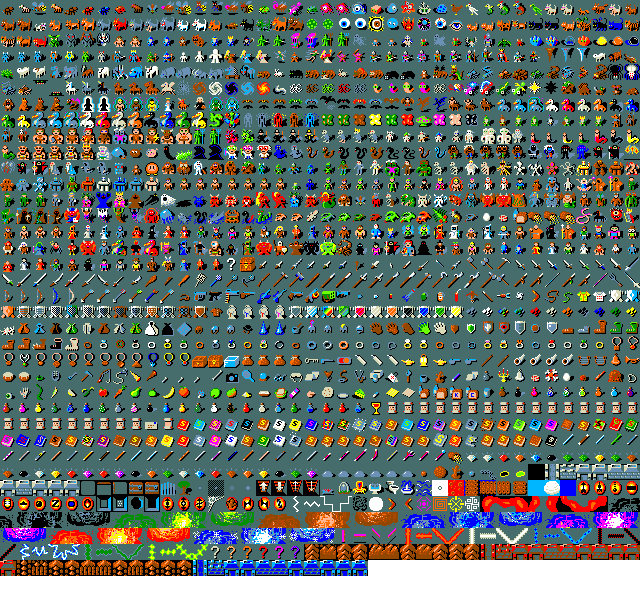
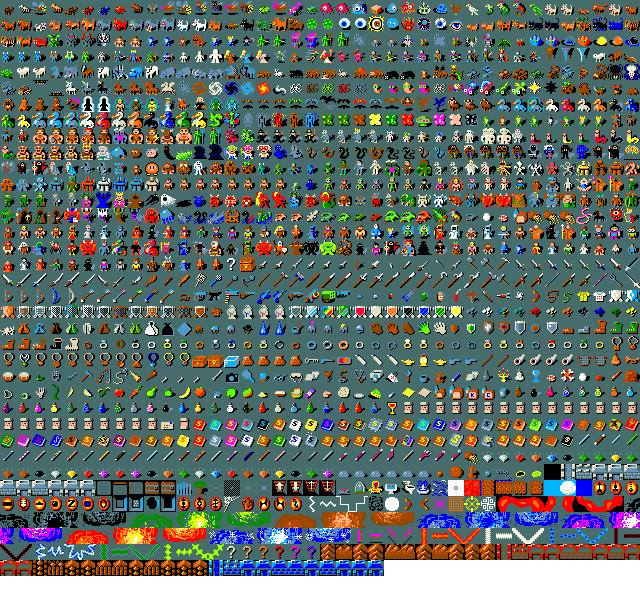
Jesus, the wine glass, the intro story for every new game, no autopickup
The Catholic priest and bishop, the monastic orders (Benedictine,
Cistercian, Carthusian, Augustinian, Franciscan, Dominican, Carmelite)
and the crusading knights follow Jesus: their design's deity, the lawful
god (they're held lawful; the creator shows it), set again on every
restore. They start with ten holy wafers and a holy wine. Their intro is
told in Christian canon: written in the Bible, Satan the cruel god who
stole the Amulet from Jesus the Creator. Holy wine drunk by a follower
makes peace with an angry Jesus.

The wine glass: plain and clear, a tool never made at random, what's left
when holy wine is drunk. Prayer fills it again: on any altar, or for the
priest and the bishop, anywhere they pray. A second glass of holy wine
soon after the first makes you really drunk, for hundreds of turns.

Every new game opens with its intro story (no toggle). Pickup is yours to
do: no autopickup (,).

Changed region(s): [[0.0, 0.5938, 1.0, 0.9688]]

diff --git a/web/js/main.js b/web/js/main.js
@@ -882,7 +882,6 @@ const CYCLES = {
   race: ['Race', RACES.slashem],
   gender: ['Gender', ['random', 'male', 'female']],
   align: ['Alignment', ['random', 'lawful', 'neutral', 'chaotic']],
-  legacy: ['Intro story', ['off', 'on']],
 };
 const SPLASHES = ['Now in 3D!', 'Elbereth!', 'Now with studs!', 'The DevTeam thinks of everything!', 'Do not eat the cockatrice!',
   'You hear the footsteps of a guard on patrol.', '100% tiles!', 'Ascend!', 'Mind your bare feet!', 'Watch out for soldier ants!'];
@@ -940,10 +939,12 @@ function buildScreens() {
 
   // BrickHack starts you as a human male Knight (role 7, race 1, gender 1); the
   // alignment always starts random (the game picks one that fits)
-  const choice = { role: 7, race: 1, gender: 1, legacy: 0, ...safeJSON(localGet('bh.create')), align: 0 };
+  const choice = { role: 7, race: 1, gender: 1, ...safeJSON(localGet('bh.create')), align: 0 };
+  delete choice.legacy; // (a choice no more: every new game opens with its story)
   const nameIn = $('#cname');
   nameIn.value = localGet('nh3d.name') || '';
   let syncPicker = () => {}; // the minifig picker follows the role and gender
+  let sworn = null; // a figure with a deity of its own (its design's "god": Jesus) is held to its alignment: lawful
   const draws = [];
   // Role, race, gender and alignment open a menu of their options; an option
   // that can't go with the other choices (by the game's own rules) is greyed
@@ -961,6 +962,7 @@ function buildScreens() {
   const closeMenu = () => { const m = $('#choice-menu'); if (m) m.remove(); };
   const openMenu = (b, k) => {
     closeMenu();
+    if (k === 'align' && sworn) return; // (fixed by the figure's faith)
     const menu = document.createElement('div');
     menu.id = 'choice-menu';
     menu.className = 'choice-menu';
@@ -988,8 +990,12 @@ function buildScreens() {
     const k = b.dataset.key;
     const draw = () => {
       choice[k] %= CYCLES[k][1].length;
-      b.textContent = `${CYCLES[k][0]}: ${cap(CYCLES[k][1][choice[k]])}`;
+      b.textContent = `${CYCLES[k][0]}: ${cap(CYCLES[k][1][choice[k]])}` + (k === 'align' && sworn ? ` (${sworn})` : '');
       b.classList.toggle('conflict', RULED.includes(k) && conflicts(rules, pick(), k, pick()[k]).length > 0);
+      if (k === 'align') {
+        b.classList.toggle('sworn', !!sworn);
+        b.title = sworn ? `A follower of ${sworn} is lawful` : '';
+      }
     };
     b.onclick = (e) => {
       if (!RULED.includes(k)) { choice[k] = (choice[k] + 1) % CYCLES[k][1].length; refresh(); return; }
@@ -1022,7 +1028,7 @@ function buildScreens() {
   $('#create [data-act=roll]').onclick = () => {
     const any = (k) => CYCLES[k][1].map((v, i) => i).filter((i) => CYCLES[k][1][i] !== 'random');
     const pickOne = (a) => a[Math.floor(Math.random() * a.length)];
-    const free = RULED.filter((k) => !locked.has(k));
+    const free = RULED.filter((k) => !locked.has(k) && !(k === 'align' && sworn));
     for (const k of free) choice[k] = 0;
     for (const k of free) {
       const ok = any(k).filter((i) => !conflicts(rules, pick(), k, CYCLES[k][1][i]).length);
@@ -1040,12 +1046,21 @@ function buildScreens() {
   };
   // your character is named for the figure you pick, unless you have typed a name of your own
   const figNames = new Set();
+  // a figure sworn to a deity of its own (Jesus) is lawful, whatever else was chosen; another frees it
+  const swear = (fig) => {
+    const god = (fig && fig.god) || null;
+    if (god) choice.align = CYCLES.align[1].indexOf('lawful');
+    else if (sworn) choice.align = 0;
+    sworn = god;
+    refresh();
+  };
   figPicker = setupFigurePicker($('#figpick'), () => !$('#create').classList.contains('hidden'), (fig) => {
     if (!nameIn.value || nameIn.value === 'Steve' || figNames.has(nameIn.value)) nameIn.value = fig.label;
     figNames.add(fig.label);
+    swear(fig);
   });
   loadRoster().then((r) => r.forEach((f) => figNames.add(f.label)));
-  syncPicker = () => figPicker.filter(CYCLES.role[1][choice.role], CYCLES.gender[1][choice.gender], CYCLES.race[1][choice.race]);
+  syncPicker = () => { figPicker.filter(CYCLES.role[1][choice.role], CYCLES.gender[1][choice.gender], CYCLES.race[1][choice.race]); swear(figPicker.current()); };
   syncPicker();
   $('#create [data-act=go]').onclick = () => {
     localSet('bh.create', JSON.stringify(choice));
@@ -1061,8 +1076,8 @@ function buildScreens() {
       // roles go by their 3-letter file code (handles "Flame Mage" etc), races by full name
       o[k] = v === 'random' ? 'random' : k === 'race' ? v : v.slice(0, 3);
     }
-    if (figPicker.current() && figPicker.current().kit) o.kit = figPicker.current().kit; // (what its design starts it with besides)
-    o.legacy = choice.legacy === 1;
+    const fig = figPicker.current();
+    if (fig) for (const k of ['kit', 'god', 'perks']) if (fig[k]) o[k] = fig[k]; // (what its design starts it with besides, its deity, its gifts)
     o.dreamland = !!game.createDream;
     o.variant = game.variant;
     startGame(o);
@@ -1145,7 +1160,12 @@ async function openWorlds() {
     const av = loadSkinURL(n);
     if (av) d.querySelector('.avatar').style.backgroundImage = `url(${av})`;
     else d.querySelector('.avatar').style.visibility = 'hidden';
-    d.onclick = () => startGame({ name: n, variant: game.variant });
+    d.onclick = async () => { // (its figure's deity and gifts, again: the engine sets them up on every restore)
+      const fig = (await loadRoster()).find((f) => f.id === localGet(FIG_KEY(n)));
+      const o = { name: n, variant: game.variant };
+      if (fig) for (const k of ['god', 'perks']) if (fig[k]) o[k] = fig[k];
+      startGame(o);
+    };
     list.appendChild(d);
   }
 }

diff --git a/server/server.js b/server/server.js
@@ -19,9 +19,9 @@ const ART_DIRS = ['sky', 'skins', 'monsters', 'dreamland', 'blocks'];
 const IMAGE_EXT = /\.(png|gif|webp)$/i;
 const WORLDS = path.join(ROOT, 'worlds'); // local only: placed blocks + block inventory per character
 // the game engine, built by tools/build-slashem.sh
-// autopickup with no pickup_types = collect everything (Minecraft-style);
+// no autopickup: you pick things up yourself (,);
 // menustyle:partial makes chests list their contents straight away
-const COMMON_OPTS = ['autopickup', 'time', 'showexp', '!cmdassist', 'menustyle:partial'];
+const COMMON_OPTS = ['!autopickup', 'time', 'showexp', '!cmdassist', 'menustyle:partial'];
 // the Windows package (tools/package-windows.sh) carries its engine in game\
 const WINDOWS = process.platform === 'win32';
 const VARIANTS = {
@@ -74,10 +74,10 @@ function startGame(sid, opts) {
   const V = VARIANTS[variant];
   const o = [...V.opts];
   for (const k of ['role', 'race', 'gender', 'align']) {
-    const v = cleanOpt(opts[k]);
+    const v = k === 'align' && opts.god ? 'law' : cleanOpt(opts[k]); // (a follower of the figure's own deity, Jesus, is lawful)
     if (v && v !== 'random') o.push(`${k}:${v}`);
   }
-  if (!opts.legacy) o.push('!legacy');
+  // (the intro story: every new game opens with it, NetHack's legacy option, on by default)
   if (opts.dreamland) o.push('dreamland'); // start on the Dreamland overland level
   const name = cleanName(opts.name);
   // a brand-new character (no save to restore) starts a fresh block world
@@ -87,6 +87,9 @@ function startGame(sid, opts) {
     try { fs.unlinkSync(worldFile(variant, name)); } catch {}
   }
   const kit = fresh ? String(opts.kit || '').replace(/[^a-z0-9 ,:'-]/gi, '').slice(0, 200) : '';
+  // its deity ("Jesus": role.c, set again on every restore) and gifts ("chalice": winweb.c web_fill_glasses)
+  const god = String(opts.god || '').replace(/[^a-z '-]/gi, '').slice(0, 60);
+  const perks = String(opts.perks || '').replace(/[^a-z ,-]/gi, '').slice(0, 100);
 
   const start = () => {
     // LEGOHACK_WIZARD=1 npm start: every game in debug (wizard) mode, for testing
@@ -94,7 +97,7 @@ function startGame(sid, opts) {
     const args = process.env.LEGOHACK_WIZARD === '1' ? ['-D', '-u', name] : ['-u', name];
     const proc = spawn(path.join(V.dir, V.bin), args, {
       cwd: V.dir,
-      env: { ...process.env, NETHACKOPTIONS: o.join(','), HOME: V.dir, LEGOHACK_KIT: kit },
+      env: { ...process.env, NETHACKOPTIONS: o.join(','), HOME: V.dir, LEGOHACK_KIT: kit, LEGOHACK_GOD: god, LEGOHACK_PERKS: perks },
       stdio: ['pipe', 'pipe', 'pipe', 'pipe'],
     });
     sess.proc = proc;

diff --git a/web/css/style.css b/web/css/style.css
@@ -376,6 +376,7 @@ body.lego3d #title .splash { bottom: -44px; right: -20px; } /* (below the brick 
 #create .lock-btn { position: absolute; left: 100%; top: 0; margin-left: 6px; min-width: 0; width: 42px; padding: 0; font-size: 18px; opacity: .55; }
 #create .lock-btn.on { opacity: 1; }
 #create .cycle.conflict { color: #ff7a7a; }
+#create .cycle.sworn { color: #ffd76a; cursor: default; } /* (held to its alignment by the figure's deity) */
 #create [data-act=go]:disabled { opacity: .45; cursor: not-allowed; }
 
 /* an item made in LEGO: a rendered picture of its model (legoitems.js), drawn smooth */

diff --git a/web/index.html b/web/index.html
@@ -141,7 +141,6 @@
     <button class="mc-btn cycle" data-key="race"></button>
     <button class="mc-btn cycle" data-key="gender"></button>
     <button class="mc-btn cycle" data-key="align"></button>
-    <button class="mc-btn cycle" data-key="legacy"></button>
   </div>
   <div class="row">
     <button class="mc-btn" data-act="go">Create Character</button>

diff --git a/tools/patch_engine.py b/tools/patch_engine.py
@@ -188,6 +188,73 @@ edit("src/potion.c", [("	case POT_FULL_HEALING:\n		You_feel(\"completely healed.
 edit("win/share/objects.txt", [("# tile 368 (LEP GEX VEN ZEA / create monster)\n",
 """# tile 384 (golden goblet / holy wine)\n{\n  MMMMMMMMMMMMMMMM\n  MMMMMMMMMMMMMMMM\n  MMMAAAAAAAAAAMMM\n  MMMAHHHHHHHHAMMM\n  MMMAHDDDDDDHAMMM\n  MMMAHNDDDDDHAMMM\n  MMMMAHDDDDHCAMMM\n  MMMMMAHHHHCAMMMM\n  MMMMMMAHHCAMMMMM\n  MMMMMMMAHAMMMMMM\n  MMMMMMMAHAMMMMMM\n  MMMMMMMAHAMMMMMM\n  MMMMMMAHHCAMMMMM\n  MMMMMAHHHHCAMMMM\n  MMMMAAAAAAAAMMMM\n  MMMMMMMMMMMMMMMM\n}\n# tile 368 (LEP GEX VEN ZEA / create monster)\n""")],
      "golden goblet / holy wine")
+# ...and drunk glass after glass it goes to your head: another within 100
+# turns makes you really drunk, for hundreds of turns (winweb.c
+# web_holy_wine_sip, before the wine's cures, and web_holy_wine, after them)
+edit("src/potion.c", [("	case POT_HOLY_WINE: /* WEB_HOOK_HOLYWINE: the chalice: whole in body and soul */\n",
+                       "	case POT_HOLY_WINE: /* WEB_HOOK_HOLYWINE: the chalice: whole in body and soul */\n"
+                       "		{ extern void NDECL(web_holy_wine_sip); web_holy_wine_sip(); } /* WEB_HOOK_DRUNK */\n")],
+     "WEB_HOOK_DRUNK")
+# BrickHack: the wine glass, plain and clear (a tool, never made at random):
+# what's left when holy wine is drunk; prayer fills it again (winweb.c
+# web_fill_glasses: on an altar, or anywhere for a Catholic priest)
+edit("src/objects.c", [("		TOOL_CLASS, 0, 0,10, 5000, 0, 0, 0, 0, 50, HI_SILVER),\n#undef TOOL\n",
+                        "		TOOL_CLASS, 0, 0,10, 5000, 0, 0, 0, 0, 50, HI_SILVER),\n"
+                        "TOOL(\"wine glass\", (char *)0,   1, 1, 0, 0,   0,   3,   5, GLASS, HI_GLASS), /* WEB_HOOK_GLASS */\n"
+                        "#undef TOOL\n")],
+     "WEB_HOOK_GLASS")
+edit("win/share/objects.txt", [("# tile 298 (tripe ration)\n",
+"""# tile 298 (wine glass)\n{\n  MMMMMMMMMMMMMMMM\n  MMMMMMMMMMMMMMMM\n  MMMMMBBBBBBMMMMM\n  MMMMBNPPPPPBMMMM\n  MMMMBNPPPPPBMMMM\n  MMMMBNPPPPPBMMMM\n  MMMMMBNPPPBMMMMM\n  MMMMMMBBBBMMMMMM\n  MMMMMMMBBMMMMMMM\n  MMMMMMMBBMMMMMMM\n  MMMMMMMBBMMMMMMM\n  MMMMMMMBBMMMMMMM\n  MMMMMMBBBBMMMMMM\n  MMMMBBBBBBBBMMMM\n  MMMMMMMMMMMMMMMM\n  MMMMMMMMMMMMMMMM\n}\n# tile 298 (tripe ration)\n""")],
+     "(wine glass)")
+edit("src/potion.c", [("		exercise(A_WIS, TRUE);\n		exercise(A_CON, TRUE);\n		break;\n	case POT_FULL_HEALING:\n",
+                       "		exercise(A_WIS, TRUE);\n		exercise(A_CON, TRUE);\n"
+                       "		{ extern void NDECL(web_holy_wine); web_holy_wine(); } /* WEB_HOOK_GLASS: drunk; peace with the figure's own god */\n"
+                       "		{ /* WEB_HOOK_GLASS: the wine drunk, its glass stays */\n"
+                       "		    struct obj *glass = mksobj(WINE_GLASS, FALSE, FALSE);\n"
+                       "		    glass->blessed = otmp->blessed;\n"
+                       "		    glass->cursed = otmp->cursed;\n"
+                       "		    (void) hold_another_object(glass, \"You set the empty glass down.\",\n"
+                       "					       (const char *)0, (const char *)0);\n"
+                       "		}\n"
+                       "		break;\n	case POT_FULL_HEALING:\n")],
+     "WEB_HOOK_GLASS")
+edit("src/pray.c", [("	pleased(alignment); /* nice */\n    }\n    return(1);\n}\n",
+                     "	pleased(alignment); /* nice */\n    }\n"
+                     "    { extern void NDECL(web_fill_glasses); web_fill_glasses(); } /* WEB_HOOK_GLASS */\n"
+                     "    return(1);\n}\n")],
+     "WEB_HOOK_GLASS")
+# BrickHack: a figure's own deity (the server's LEGOHACK_GOD, from its design:
+# Jesus, for the Catholic priest, the monastic orders and the crusading
+# knights), the lawful god (its followers are lawful: the server sets
+# align:lawful); set again on every restore
+edit("src/role.c", [("	    urole.cgod = roles[flags.pantheon].cgod;\n	}\n",
+                     "	    urole.cgod = roles[flags.pantheon].cgod;\n	}\n"
+                     "	{ /* WEB_HOOK_GOD */\n"
+                     "	    static char web_god[64];\n"
+                     "	    const char *g = getenv(\"LEGOHACK_GOD\");\n"
+                     "	    if (g && *g) {\n"
+                     "		(void) strncpy(web_god, g, sizeof web_god - 1);\n"
+                     "		urole.lgod = web_god;\n"
+                     "	    }\n"
+                     "	}\n")],
+     "WEB_HOOK_GOD")
+# BrickHack: the intro story (com_pager 1) told to a follower of the figure's
+# own deity (Jesus): the cruel god who stole the Amulet is Satan (winweb.c
+# web_intro_line); Moloch stays Moloch everywhere else
+edit("src/questpgr.c", [("STATIC_OVL void\ndeliver_by_window(qt_msg, how)\n",
+                         "static int web_intro = 0; /* WEB_HOOK_INTRO: telling the intro story */\n"
+                         "STATIC_OVL void\ndeliver_by_window(qt_msg, how)\n"),
+                        ("	    convert_line();\n	    putstr(datawin, 0, out_line);\n",
+                         "	    convert_line();\n"
+                         "	    if (web_intro) { extern void FDECL(web_intro_line, (char *)); web_intro_line(out_line); }\n"
+                         "	    putstr(datawin, 0, out_line);\n"),
+                        ("	else if (msgnum == 1) deliver_by_window(qt_msg, NHW_MENU);\n",
+                         "	else if (msgnum == 1) {\n"
+                         "	    web_intro = 1;\n"
+                         "	    deliver_by_window(qt_msg, NHW_MENU);\n"
+                         "	    web_intro = 0;\n"
+                         "	}\n")],
+     "WEB_HOOK_INTRO")
 # Dreamland heroes are blessed with swimming (the lakes are for paddling)
 edit("src/u_init.c", [("    { /* WEB_HOOK */ /* NetHack 3D: everyone starts with a pick-axe */",
                        "    if (flags.dreamland) HSwimming |= FROMOUTSIDE; /* WEB_HOOK_DREAM */\n"

diff --git a/port/winweb.c b/port/winweb.c
@@ -514,6 +514,133 @@ web_kit_item(int i, int *quan)
     return 0;
 }
 
+/* a wine glass filled: holy wine again (in place: where it lies, or in the pack) */
+static void
+web_fill(struct obj *o)
+{
+    o->otyp = POT_HOLY_WINE;
+    o->oclass = POTION_CLASS;
+    o->blessed = 1;
+    o->cursed = 0;
+    o->owt = weight(o);
+}
+
+/* potion.c peffects, holy wine: a glass soon after another (within 100
+   turns) goes to your head. Reckoned before the wine's cures (which clear
+   confusion), so the drunkenness you had stays and grows */
+static long web_wine_last = -1000L, web_wine_drunk = 0L;
+
+void
+web_holy_wine_sip(void)
+{
+    web_wine_drunk = moves - web_wine_last < 100 ? (HConfusion & TIMEOUT) + d(10, 40) : 0L;
+    web_wine_last = moves;
+}
+
+/* ...and after them: really drunk (confused for hundreds of turns, unsteady
+   for a few, out cold past 400), and a follower of the figure's own deity
+   (the server's LEGOHACK_GOD: Jesus, the lawful god) at peace with him */
+void
+web_holy_wine(void)
+{
+    const char *g = getenv("LEGOHACK_GOD");
+
+    if (g && *g && u.ualign.type == A_LAWFUL && u.ugangr) {
+        u.ugangr = 0;
+        You_feel("that %s is no longer angry with you.", u_gname());
+        flags.botl = 1;
+    }
+    if (web_wine_drunk) {
+        pline("Whoa!  That went straight to your head.");
+        You_feel("%s drunk.", web_wine_drunk > 250 ? "very" : "really");
+        make_confused(web_wine_drunk, FALSE);
+        make_stunned((HStun & TIMEOUT) + d(3, 6), FALSE);
+        if (web_wine_drunk > 400) {
+            You("pass out.");
+            multi = -rnd(15);
+            nomovemsg = "You awake with a pounding headache.";
+        }
+        web_wine_drunk = 0L;
+    }
+}
+
+/* questpgr.c: a line of the intro story, told to a follower of the figure's
+   own deity (the server's LEGOHACK_GOD: Jesus), in Christian canon: written in
+   the Bible, the cruel god is Satan, the Creator Jesus, and the Amulet's
+   hunt is to take back what Satan stole. A line at a time (128 chars at most:
+   questpgr.c out_line); a phrase swapped where it's found */
+static void
+web_swap(char *line, const char *from, const char *to)
+{
+    char buf[128], *p;
+
+    while ((p = strstri(line, from)) != 0) {
+        size_t head = p - line;
+        if (head + strlen(to) + strlen(p + strlen(from)) >= sizeof buf)
+            return;
+        (void) strncpy(buf, line, head);
+        buf[head] = 0;
+        Strcat(buf, to);
+        Strcat(buf, p + strlen(from));
+        Strcpy(line, buf);
+    }
+}
+
+void
+web_intro_line(char *line)
+{
+    const char *g = getenv("LEGOHACK_GOD");
+
+    if (!g || !*g)
+        return;
+    if (strstri(line, "It is written in the Book of")) {
+        Strcpy(line, "It is written in the Bible:");
+        return;
+    }
+    web_swap(line, "Moloch", "Satan");
+    web_swap(line, "Marduk", g);                    /* the Creator */
+    if (strstri(line, "seeks to possess the Amulet")) {
+        Sprintf(line, "Your god %s seeks to possess the Amulet and revoke", g);
+        return;
+    }
+    if (strstri(line, "to gain deserved ascendance"))
+        Sprintf(line, "Satan's undeserved ascendance over the other gods.");
+}
+
+/* pray.c prayer_done: a prayer fills wine glasses with holy wine again: those
+   on the altar you pray at (any altar), and for a Catholic priest (the
+   server's LEGOHACK_PERKS: "chalice", from his design) those he carries,
+   wherever he prays */
+void
+web_fill_glasses(void)
+{
+    const char *perks = getenv("LEGOHACK_PERKS");
+    struct obj *o, *next;
+    long n = 0;
+
+    if (IS_ALTAR(levl[u.ux][u.uy].typ)) {   /* (pray.c's on_altar) */
+        for (o = level.objects[u.ux][u.uy]; o; o = next) {
+            next = o->nexthere;
+            if (o->otyp == WINE_GLASS) { n += o->quan; web_fill(o); }
+        }
+        if (n) {
+            pline("The glass%s on the altar fill%s with wine.", n > 1 ? "es" : "", n > 1 ? "" : "s");
+            newsym(u.ux, u.uy);
+        }
+    }
+    if (perks && strstri(perks, "chalice")) {
+        n = 0;
+        for (o = invent; o; o = next) {
+            next = o->nobj;
+            if (o->otyp == WINE_GLASS) { n += o->quan; web_fill(o); }
+        }
+        if (n) {
+            pline("The glass%s in your pack fill%s with wine.", n > 1 ? "es" : "", n > 1 ? "" : "s");
+            update_inventory();
+        }
+    }
+}
+
 /* artifact.c arti_invoke: 1 = the hero holds all three (the invoke opens a portal) */
 int
 web_realm_set(void)

diff --git a/tools/build_roster.py b/tools/build_roster.py
@@ -77,6 +77,8 @@ def main():
                       'race': spec.get('race', 'human'),
                       # more it starts the game with than its role's own kit ("holy wafer:4,..."): winweb.c web_kit_item
                       **({'kit': spec['kit']} if spec.get('kit') else {}),
+                      # its own deity ("Jesus": winweb's LEGOHACK_GOD, role.c) and gifts ("chalice": winweb.c web_fill_glasses)
+                      **({k: spec[k] for k in ('god', 'perks') if spec.get(k)}),
                       # the slots its design fills: starting gear shows only where it takes the place of something
                       'slots': {'helm': bool(full.get('hat')),
                                 'cloak': any(wardrobe.is_cape(n) for n in (full.get('neck') or []) if isinstance(n, dict))
